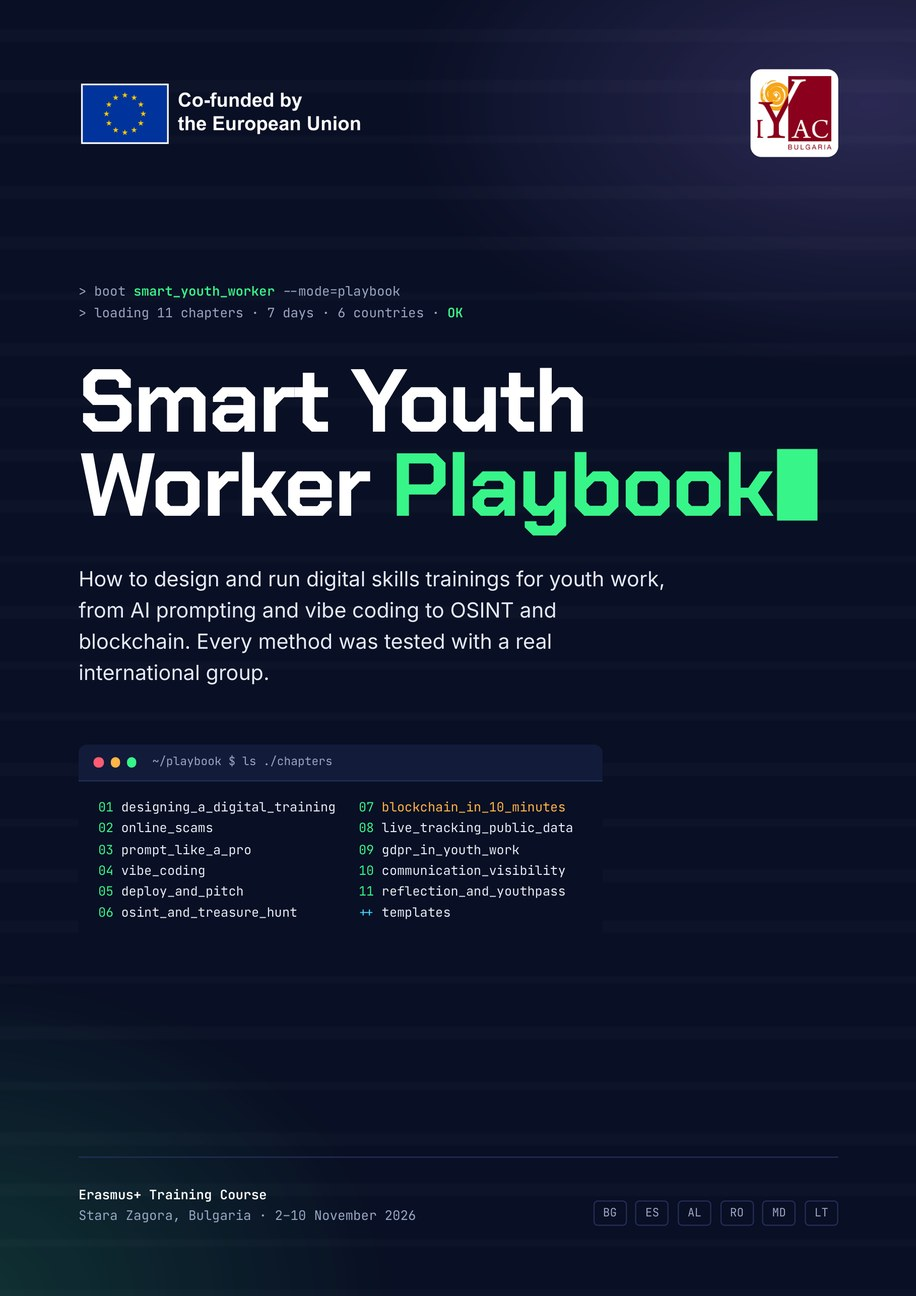
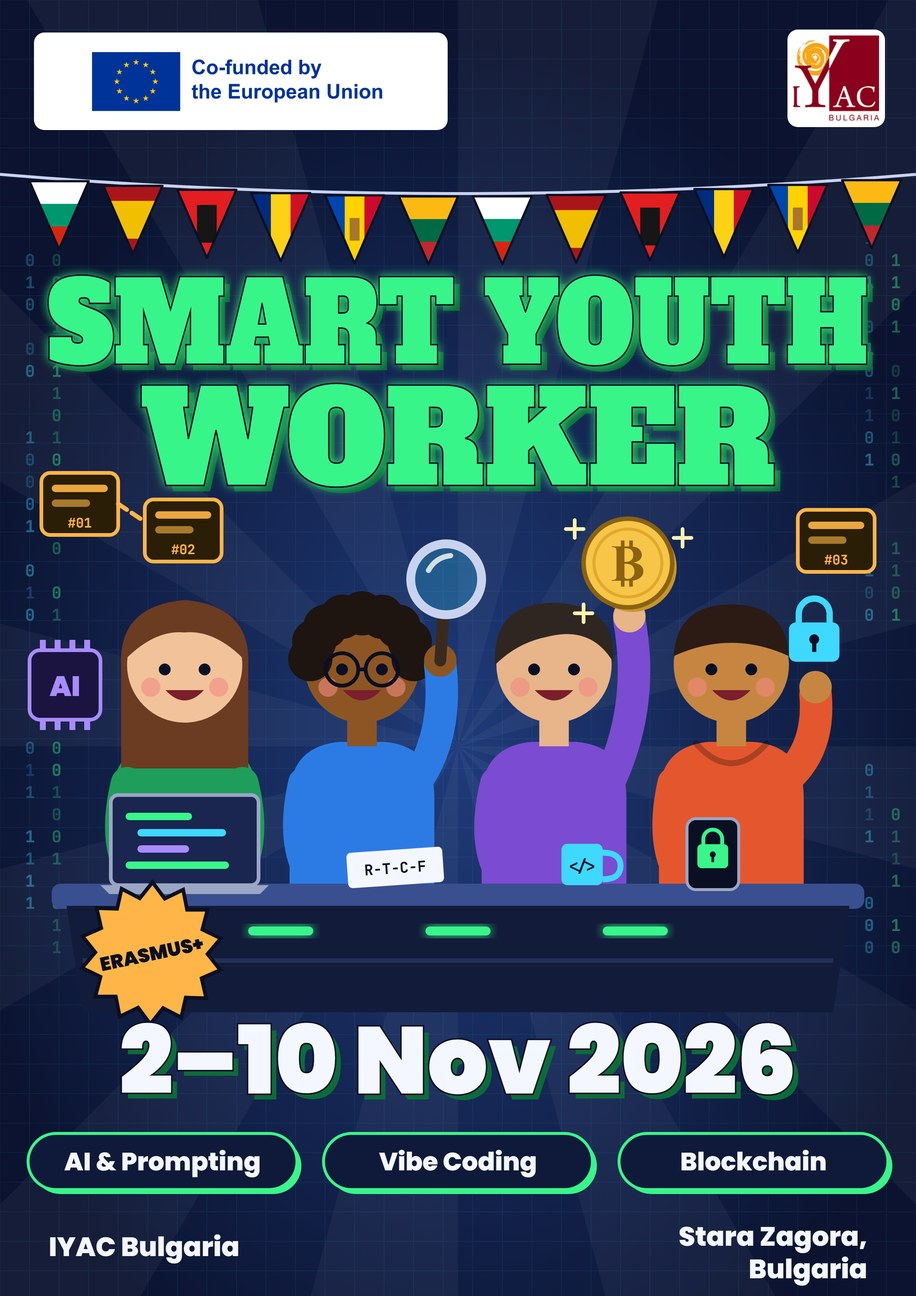
Redesign the Smart Youth Worker poster and highlight its topics
A new illustrated poster in the style of the other 2026 ones, with a
cyber/crypto twist: navy rays, flag pennants, a neon title, and four
characters with a magnifier, a Bitcoin, a padlock and code. The
playbook section keeps the real PDF cover.

The page now opens with "What the course tackled": five cards for
fighting cyber crime and scams, security, online safety, blockchain
and vibe coding. English and Bulgarian.

diff --git a/bg/smartyouthworker.html b/bg/smartyouthworker.html
@@ -25,12 +25,12 @@
   <link href="../assets/vendor/bootstrap-icons/bootstrap-icons.min.css" rel="stylesheet">
 
   <!-- Shevitsa design system -->
-  <link href="../assets/css/shevitsa.css?v=13" rel="stylesheet">
+  <link href="../assets/css/shevitsa.css?v=14" rel="stylesheet">
 
   <!-- Motion (the page works fully without these) -->
   <script src="https://cdnjs.cloudflare.com/ajax/libs/gsap/3.13.0/gsap.min.js" defer></script>
   <script src="https://cdnjs.cloudflare.com/ajax/libs/gsap/3.13.0/ScrollTrigger.min.js" defer></script>
-  <script src="../assets/js/shevitsa.js?v=13" defer></script>
+  <script src="../assets/js/shevitsa.js?v=14" defer></script>
 
   <!-- Generated by _tools/build_project.py — the text comes from the original page. -->
 </head>
@@ -109,6 +109,48 @@
 
     <div class="band" data-band="1" aria-hidden="true"><div class="band__track"></div></div>
 
+    <!-- ===== Core topics ===== -->
+    <section class="topics section">
+      <div class="container">
+        <header class="section-head" data-reveal>
+          <h2 class="eyebrow">Какво разгледа курсът</h2>
+          <p class="topics__lead">Пет теми в сърцето на седмицата</p>
+        </header>
+        <ul class="topics__grid">
+          <li class="topic" data-reveal style="--d:0">
+            <span class="topic__icon"><i class="bi bi-shield-exclamation" aria-hidden="true"></i></span>
+            <span class="topic__n" aria-hidden="true">01</span>
+            <h3 class="topic__title">Борба с киберпрестъпленията и измамите</h3>
+            <p class="topic__text">Участниците се научиха да разпознават тревожните сигнали на онлайн измамите, анализираха известни хакерски атаки и видяха как повечето атаки подвеждат хората, а не кода.</p>
+          </li>
+          <li class="topic" data-reveal style="--d:1">
+            <span class="topic__icon"><i class="bi bi-shield-lock" aria-hidden="true"></i></span>
+            <span class="topic__n" aria-hidden="true">02</span>
+            <h3 class="topic__title">Сигурност</h3>
+            <p class="topic__text">Силни пароли, двуфакторно удостоверяване и проверки за изтекли данни, проучени от екипите и превърнати в уроци за тийнейджъри.</p>
+          </li>
+          <li class="topic" data-reveal style="--d:2">
+            <span class="topic__icon"><i class="bi bi-eye-slash" aria-hidden="true"></i></span>
+            <span class="topic__n" aria-hidden="true">03</span>
+            <h3 class="topic__title">Онлайн безопасност</h3>
+            <p class="topic__text">OSINT върху собствения дигитален отпечатък, метаданни в снимките, публични камери, GDPR и безопасно използване на инструменти с изкуствен интелект.</p>
+          </li>
+          <li class="topic" data-reveal style="--d:3">
+            <span class="topic__icon"><i class="bi bi-currency-bitcoin" aria-hidden="true"></i></span>
+            <span class="topic__n" aria-hidden="true">04</span>
+            <h3 class="topic__title">Блокчейн</h3>
+            <p class="topic__text">Как работят блокчейн и криптовалутите – научено, като групата сама се превърна в блокчейн във веригата от гатанки, – и как да се пазим от крипто измами.</p>
+          </li>
+          <li class="topic" data-reveal style="--d:4">
+            <span class="topic__icon"><i class="bi bi-code-slash" aria-hidden="true"></i></span>
+            <span class="topic__n" aria-hidden="true">05</span>
+            <h3 class="topic__title">Vibe coding</h3>
+            <p class="topic__text">Създаване на истински уебсайтове и приложения чрез описание на обикновен език пред изкуствен интелект и публикуването им онлайн с GitHub Pages.</p>
+          </li>
+        </ul>
+      </div>
+    </section>
+
     <!-- ===== Story ===== -->
     <article class="story">
         <div class="container story__col"><p class="story__lede" data-reveal>„Smart Youth Worker – AI and digital skills for youth work“ беше обучителен курс по Еразъм+, който събра младежки работници от България, Испания, Албания, Румъния, Молдова и Литва в Стара Загора, за да се научат как да преподават дигитални умения на младите хора. Нищо от това не изискваше технически опит. Всяко теоретично въведение беше последвано веднага от нещо, което участниците правеха сами, и до края на седмицата всеки участник изгради и публикува свой собствен уебсайт, приложение или образователна платформа.</p></div>
@@ -159,7 +201,7 @@
     <section id="playbook" class="playbook section">
       <div class="container playbook__grid">
         <a class="playbook__cover" href="../assets/docs/smart-youth-worker-playbook.pdf" download data-reveal aria-label="Изтеглете наръчника (PDF)">
-          <img src="../assets/img/home/posters/smartyouthworker.jpg" alt="Корица на Smart Youth Worker Playbook" width="916" height="1296" loading="lazy" decoding="async">
+          <img src="../assets/docs/smart-youth-worker-playbook-cover.jpg" alt="Корица на Smart Youth Worker Playbook" width="916" height="1296" loading="lazy" decoding="async">
         </a>
         <div class="playbook__copy">
           <header class="section-head" data-reveal>

diff --git a/smartyouthworker.html b/smartyouthworker.html
@@ -25,12 +25,12 @@
   <link href="assets/vendor/bootstrap-icons/bootstrap-icons.min.css" rel="stylesheet">
 
   <!-- Shevitsa design system -->
-  <link href="assets/css/shevitsa.css?v=13" rel="stylesheet">
+  <link href="assets/css/shevitsa.css?v=14" rel="stylesheet">
 
   <!-- Motion (the page works fully without these) -->
   <script src="https://cdnjs.cloudflare.com/ajax/libs/gsap/3.13.0/gsap.min.js" defer></script>
   <script src="https://cdnjs.cloudflare.com/ajax/libs/gsap/3.13.0/ScrollTrigger.min.js" defer></script>
-  <script src="assets/js/shevitsa.js?v=13" defer></script>
+  <script src="assets/js/shevitsa.js?v=14" defer></script>
 
   <!-- Generated by _tools/build_project.py — the text comes from the original page. -->
 </head>
@@ -109,6 +109,48 @@
 
     <div class="band" data-band="1" aria-hidden="true"><div class="band__track"></div></div>
 
+    <!-- ===== Core topics ===== -->
+    <section class="topics section">
+      <div class="container">
+        <header class="section-head" data-reveal>
+          <h2 class="eyebrow">What the course tackled</h2>
+          <p class="topics__lead">Five topics at the heart of the week</p>
+        </header>
+        <ul class="topics__grid">
+          <li class="topic" data-reveal style="--d:0">
+            <span class="topic__icon"><i class="bi bi-shield-exclamation" aria-hidden="true"></i></span>
+            <span class="topic__n" aria-hidden="true">01</span>
+            <h3 class="topic__title">Fighting cyber crime and scams</h3>
+            <p class="topic__text">Participants learned to spot the red flags of online scams, analysed famous hacks and saw how most attacks trick people, not code.</p>
+          </li>
+          <li class="topic" data-reveal style="--d:1">
+            <span class="topic__icon"><i class="bi bi-shield-lock" aria-hidden="true"></i></span>
+            <span class="topic__n" aria-hidden="true">02</span>
+            <h3 class="topic__title">Security</h3>
+            <p class="topic__text">Strong passphrases, two-factor authentication and data-leak checks, researched by the teams and turned into lessons for teenagers.</p>
+          </li>
+          <li class="topic" data-reveal style="--d:2">
+            <span class="topic__icon"><i class="bi bi-eye-slash" aria-hidden="true"></i></span>
+            <span class="topic__n" aria-hidden="true">03</span>
+            <h3 class="topic__title">Online safety</h3>
+            <p class="topic__text">OSINT on their own digital footprint, photo metadata, public cameras, GDPR and the safe use of AI tools.</p>
+          </li>
+          <li class="topic" data-reveal style="--d:3">
+            <span class="topic__icon"><i class="bi bi-currency-bitcoin" aria-hidden="true"></i></span>
+            <span class="topic__n" aria-hidden="true">04</span>
+            <h3 class="topic__title">Blockchain</h3>
+            <p class="topic__text">How blockchain and crypto work, learned by becoming a blockchain in the riddle chain, plus how to stay safe from crypto scams.</p>
+          </li>
+          <li class="topic" data-reveal style="--d:4">
+            <span class="topic__icon"><i class="bi bi-code-slash" aria-hidden="true"></i></span>
+            <span class="topic__n" aria-hidden="true">05</span>
+            <h3 class="topic__title">Vibe coding</h3>
+            <p class="topic__text">Building real websites and apps by describing them to AI in plain language, then publishing them online with GitHub Pages.</p>
+          </li>
+        </ul>
+      </div>
+    </section>
+
     <!-- ===== Story ===== -->
     <article class="story">
         <div class="container story__col"><p class="story__lede" data-reveal>"Smart Youth Worker – AI and digital skills for youth work" was an Erasmus+ training course that brought youth workers from Bulgaria, Spain, Albania, Romania, Moldova and Lithuania to Stara Zagora to learn how to teach digital skills to young people. None of it required a tech background. Every theory input was followed straight away by something participants did, and by the end of the week every participant had built and published their own website, app or learning platform.</p></div>
@@ -159,7 +201,7 @@
     <section id="playbook" class="playbook section">
       <div class="container playbook__grid">
         <a class="playbook__cover" href="assets/docs/smart-youth-worker-playbook.pdf" download data-reveal aria-label="Download the Playbook (PDF)">
-          <img src="assets/img/home/posters/smartyouthworker.jpg" alt="Smart Youth Worker Playbook cover" width="916" height="1296" loading="lazy" decoding="async">
+          <img src="assets/docs/smart-youth-worker-playbook-cover.jpg" alt="Smart Youth Worker Playbook cover" width="916" height="1296" loading="lazy" decoding="async">
         </a>
         <div class="playbook__copy">
           <header class="section-head" data-reveal>

diff --git a/assets/css/shevitsa.css b/assets/css/shevitsa.css
@@ -905,6 +905,29 @@ a.tile:active, .tile:has(.tile__hit:active) { transform: scale(0.98); transition
 .playbook__meta { font: 600 0.8125rem/1 ui-monospace, "SFMono-Regular", Consolas, monospace; letter-spacing: 0.06em; color: #9AA6C4; }
 @media (prefers-reduced-motion: reduce) { .playbook__cover { transform: none; transition: box-shadow 0.4s ease; } .playbook__cover:hover { transform: none; } }
 
+/* ---------- Core topics (Smart Youth Worker): cyber cards on navy ---------- */
+.topics { background: #0A1024; color: #E6EBF7; overflow: clip; }
+.topics::before { content: ""; position: absolute; inset: 0; pointer-events: none; opacity: 0.5;
+  background-image: linear-gradient(rgba(63, 216, 255, 0.06) 1px, transparent 1px), linear-gradient(90deg, rgba(63, 216, 255, 0.06) 1px, transparent 1px);
+  background-size: 40px 40px; -webkit-mask-image: radial-gradient(80% 70% at 50% 40%, #000, transparent); mask-image: radial-gradient(80% 70% at 50% 40%, #000, transparent); }
+.topics .container { position: relative; }
+.topics .eyebrow { color: #39F58A; }
+.topics .eyebrow::before { background: #39F58A; }
+.topics__lead { margin-top: 14px; font-size: clamp(2rem, 4.6vw, 3.4rem); line-height: 1; letter-spacing: -0.035em; font-weight: 700; font-stretch: 85%; color: #FFFFFF; }
+.topics__grid { display: grid; grid-template-columns: repeat(auto-fit, minmax(min(100%, 210px), 1fr)); gap: 16px; margin: 0; padding: 0; list-style: none; }
+.topic { --c: #39F58A; position: relative; display: flex; flex-direction: column; gap: 12px; padding: 24px 22px 26px; border-radius: var(--radius);
+  background: #121C3A; box-shadow: inset 0 0 0 1px #24305A, 0 30px 50px -36px rgba(0, 0, 0, 0.9); transition: transform 0.6s var(--ease-spring), box-shadow 0.4s ease; }
+.topic:nth-child(1) { --c: #FF5D73; } .topic:nth-child(2) { --c: #3FD8FF; } .topic:nth-child(3) { --c: #A98BFF; }
+.topic:nth-child(4) { --c: #FFB547; } .topic:nth-child(5) { --c: #39F58A; }
+.topic::before { content: ""; position: absolute; left: 22px; top: 0; width: 56px; height: 3px; border-radius: 0 0 3px 3px; background: var(--c); box-shadow: 0 0 14px var(--c); }
+.topic__icon { display: grid; place-items: center; width: 54px; height: 54px; border-radius: 14px; font-size: 1.5rem; color: var(--c);
+  background: color-mix(in srgb, var(--c) 14%, transparent); box-shadow: inset 0 0 0 1px color-mix(in srgb, var(--c) 40%, transparent); }
+.topic__n { position: absolute; top: 22px; right: 22px; font: 700 0.8125rem/1 ui-monospace, "SFMono-Regular", Consolas, monospace; color: #5F6C92; }
+.topic__title { font-size: 1.3rem; line-height: 1.15; letter-spacing: -0.015em; font-weight: 700; font-stretch: 92%; color: #FFFFFF; }
+.topic__text { font-size: 0.96875rem; line-height: 1.6; color: #A9B3CF; }
+@media (hover: hover) { .topic:hover { transform: translateY(-6px); box-shadow: inset 0 0 0 1px var(--c), 0 40px 60px -36px rgba(0, 0, 0, 0.95), 0 0 40px -18px var(--c); } }
+@media (prefers-reduced-motion: reduce) { .topic { transition: box-shadow 0.4s ease; } .topic:hover { transform: none; } }
+
 /* =========================================================
    Accessibility preferences
    ========================================================= */

diff --git a/bg/safeclick.html b/bg/safeclick.html
@@ -25,16 +25,16 @@
   <link href="../assets/vendor/bootstrap-icons/bootstrap-icons.min.css" rel="stylesheet">
 
   <!-- Shevitsa design system -->
-  <link href="../assets/css/shevitsa.css?v=13" rel="stylesheet">
+  <link href="../assets/css/shevitsa.css?v=14" rel="stylesheet">
 
   <link href="https://fonts.googleapis.com/css2?family=JetBrains+Mono:wght@400;600;700&display=swap" rel="stylesheet">
-  <link href="../assets/css/safeclick.css?v=13" rel="stylesheet">
+  <link href="../assets/css/safeclick.css?v=14" rel="stylesheet">
 
   <!-- Motion (the page works fully without these) -->
   <script src="https://cdnjs.cloudflare.com/ajax/libs/gsap/3.13.0/gsap.min.js" defer></script>
   <script src="https://cdnjs.cloudflare.com/ajax/libs/gsap/3.13.0/ScrollTrigger.min.js" defer></script>
-  <script src="../assets/js/shevitsa.js?v=13" defer></script>
-  <script src="../assets/js/safeclick.js?v=13" defer></script>
+  <script src="../assets/js/shevitsa.js?v=14" defer></script>
+  <script src="../assets/js/safeclick.js?v=14" defer></script>
 
   <!-- Generated by _tools/build_safeclick.py — the text comes from the project announcement. -->
 </head>

diff --git a/safeclick.html b/safeclick.html
@@ -25,16 +25,16 @@
   <link href="assets/vendor/bootstrap-icons/bootstrap-icons.min.css" rel="stylesheet">
 
   <!-- Shevitsa design system -->
-  <link href="assets/css/shevitsa.css?v=13" rel="stylesheet">
+  <link href="assets/css/shevitsa.css?v=14" rel="stylesheet">
 
   <link href="https://fonts.googleapis.com/css2?family=JetBrains+Mono:wght@400;600;700&display=swap" rel="stylesheet">
-  <link href="assets/css/safeclick.css?v=13" rel="stylesheet">
+  <link href="assets/css/safeclick.css?v=14" rel="stylesheet">
 
   <!-- Motion (the page works fully without these) -->
   <script src="https://cdnjs.cloudflare.com/ajax/libs/gsap/3.13.0/gsap.min.js" defer></script>
   <script src="https://cdnjs.cloudflare.com/ajax/libs/gsap/3.13.0/ScrollTrigger.min.js" defer></script>
-  <script src="assets/js/shevitsa.js?v=13" defer></script>
-  <script src="assets/js/safeclick.js?v=13" defer></script>
+  <script src="assets/js/shevitsa.js?v=14" defer></script>
+  <script src="assets/js/safeclick.js?v=14" defer></script>
 
   <!-- Generated by _tools/build_safeclick.py — the text comes from the project announcement. -->
 </head>

diff --git a/bg/atasteofeurope.html b/bg/atasteofeurope.html
@@ -25,12 +25,12 @@
   <link href="../assets/vendor/bootstrap-icons/bootstrap-icons.min.css" rel="stylesheet">
 
   <!-- Shevitsa design system -->
-  <link href="../assets/css/shevitsa.css?v=13" rel="stylesheet">
+  <link href="../assets/css/shevitsa.css?v=14" rel="stylesheet">
 
   <!-- Motion (the page works fully without these) -->
   <script src="https://cdnjs.cloudflare.com/ajax/libs/gsap/3.13.0/gsap.min.js" defer></script>
   <script src="https://cdnjs.cloudflare.com/ajax/libs/gsap/3.13.0/ScrollTrigger.min.js" defer></script>
-  <script src="../assets/js/shevitsa.js?v=13" defer></script>
+  <script src="../assets/js/shevitsa.js?v=14" defer></script>
 
   <!-- Generated by _tools/build_project.py — the text comes from the original page. -->
 </head>

diff --git a/bg/beyondthegame.html b/bg/beyondthegame.html
@@ -25,12 +25,12 @@
   <link href="../assets/vendor/bootstrap-icons/bootstrap-icons.min.css" rel="stylesheet">
 
   <!-- Shevitsa design system -->
-  <link href="../assets/css/shevitsa.css?v=13" rel="stylesheet">
+  <link href="../assets/css/shevitsa.css?v=14" rel="stylesheet">
 
   <!-- Motion (the page works fully without these) -->
   <script src="https://cdnjs.cloudflare.com/ajax/libs/gsap/3.13.0/gsap.min.js" defer></script>
   <script src="https://cdnjs.cloudflare.com/ajax/libs/gsap/3.13.0/ScrollTrigger.min.js" defer></script>
-  <script src="../assets/js/shevitsa.js?v=13" defer></script>
+  <script src="../assets/js/shevitsa.js?v=14" defer></script>
 
   <!-- Generated by _tools/build_project.py — the text comes from the original page. -->
 </head>

diff --git a/bg/breakthesilence.html b/bg/breakthesilence.html
@@ -25,12 +25,12 @@
   <link href="../assets/vendor/bootstrap-icons/bootstrap-icons.min.css" rel="stylesheet">
 
   <!-- Shevitsa design system -->
-  <link href="../assets/css/shevitsa.css?v=13" rel="stylesheet">
+  <link href="../assets/css/shevitsa.css?v=14" rel="stylesheet">
 
   <!-- Motion (the page works fully without these) -->
   <script src="https://cdnjs.cloudflare.com/ajax/libs/gsap/3.13.0/gsap.min.js" defer></script>
   <script src="https://cdnjs.cloudflare.com/ajax/libs/gsap/3.13.0/ScrollTrigger.min.js" defer></script>
-  <script src="../assets/js/shevitsa.js?v=13" defer></script>
+  <script src="../assets/js/shevitsa.js?v=14" defer></script>
 
   <!-- Generated by _tools/build_project.py — the text comes from the original page. -->
 </head>

diff --git a/bg/democracyunderpressure.html b/bg/democracyunderpressure.html
@@ -25,12 +25,12 @@
   <link href="../assets/vendor/bootstrap-icons/bootstrap-icons.min.css" rel="stylesheet">
 
   <!-- Shevitsa design system -->
-  <link href="../assets/css/shevitsa.css?v=13" rel="stylesheet">
+  <link href="../assets/css/shevitsa.css?v=14" rel="stylesheet">
 
   <!-- Motion (the page works fully without these) -->
   <script src="https://cdnjs.cloudflare.com/ajax/libs/gsap/3.13.0/gsap.min.js" defer></script>
   <script src="https://cdnjs.cloudflare.com/ajax/libs/gsap/3.13.0/ScrollTrigger.min.js" defer></script>
-  <script src="../assets/js/shevitsa.js?v=13" defer></script>
+  <script src="../assets/js/shevitsa.js?v=14" defer></script>
 
   <!-- Generated by _tools/build_project.py — the text comes from the original page. -->
 </head>

diff --git a/bg/doityourself.html b/bg/doityourself.html
@@ -25,12 +25,12 @@
   <link href="../assets/vendor/bootstrap-icons/bootstrap-icons.min.css" rel="stylesheet">
 
   <!-- Shevitsa design system -->
-  <link href="../assets/css/shevitsa.css?v=13" rel="stylesheet">
+  <link href="../assets/css/shevitsa.css?v=14" rel="stylesheet">
 
   <!-- Motion (the page works fully without these) -->
   <script src="https://cdnjs.cloudflare.com/ajax/libs/gsap/3.13.0/gsap.min.js" defer></script>
   <script src="https://cdnjs.cloudflare.com/ajax/libs/gsap/3.13.0/ScrollTrigger.min.js" defer></script>
-  <script src="../assets/js/shevitsa.js?v=13" defer></script>
+  <script src="../assets/js/shevitsa.js?v=14" defer></script>
 
   <!-- Generated by _tools/build_project.py — the text comes from the original page. -->
 </head>

diff --git a/bg/faciliteasy.html b/bg/faciliteasy.html
@@ -25,12 +25,12 @@
   <link href="../assets/vendor/bootstrap-icons/bootstrap-icons.min.css" rel="stylesheet">
 
   <!-- Shevitsa design system -->
-  <link href="../assets/css/shevitsa.css?v=13" rel="stylesheet">
+  <link href="../assets/css/shevitsa.css?v=14" rel="stylesheet">
 
   <!-- Motion (the page works fully without these) -->
   <script src="https://cdnjs.cloudflare.com/ajax/libs/gsap/3.13.0/gsap.min.js" defer></script>
   <script src="https://cdnjs.cloudflare.com/ajax/libs/gsap/3.13.0/ScrollTrigger.min.js" defer></script>
-  <script src="../assets/js/shevitsa.js?v=13" defer></script>
+  <script src="../assets/js/shevitsa.js?v=14" defer></script>
 
   <!-- Generated by _tools/build_project.py — the text comes from the original page. -->
 </head>

diff --git a/bg/keeptalking.html b/bg/keeptalking.html
@@ -25,12 +25,12 @@
   <link href="../assets/vendor/bootstrap-icons/bootstrap-icons.min.css" rel="stylesheet">
 
   <!-- Shevitsa design system -->
-  <link href="../assets/css/shevitsa.css?v=13" rel="stylesheet">
+  <link href="../assets/css/shevitsa.css?v=14" rel="stylesheet">
 
   <!-- Motion (the page works fully without these) -->
   <script src="https://cdnjs.cloudflare.com/ajax/libs/gsap/3.13.0/gsap.min.js" defer></script>
   <script src="https://cdnjs.cloudflare.com/ajax/libs/gsap/3.13.0/ScrollTrigger.min.js" defer></script>
-  <script src="../assets/js/shevitsa.js?v=13" defer></script>
+  <script src="../assets/js/shevitsa.js?v=14" defer></script>
 
   <!-- Generated by _tools/build_project.py — the text comes from the original page. -->
 </head>
